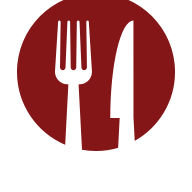
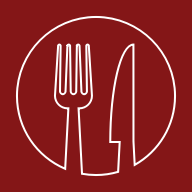
Finalize home screen functionality.
Also update icons.

diff --git a/static/css/style.css b/static/css/style.css
@@ -15,6 +15,10 @@ h1, h2, h3 {
 	margin-top: 0.4em;
 }
 #next {
+	margin-top: 0.8em;
+	opacity: 0.6;
+}
+#next, #add {
 	padding: 0.5em 2em;
 	font-size: 1.2em;
 	appearance: none;
@@ -24,9 +28,12 @@ h1, h2, h3 {
 	outline: none;
 	background: none;
 	border-radius: 0.2em;
-	opacity: 0.6;
 	cursor: pointer;
-	margin-top: 0.8em;
+}
+#add {
+	position: fixed;
+	bottom: 0.5em;
+	left: calc(50% - 2.54em);
 }
 #next:hover {
 	opacity: 1;

diff --git a/static/scripts/home-screen.js b/static/scripts/home-screen.js
@@ -2,7 +2,7 @@ window.addEventListener("beforeinstallprompt", e => {
 	e.preventDefault();
 	deferredPrompt = e;
 	let add = document.getElementById("add_button");
-	add.style.display = "block";
+	add.style.display = "initial";
 	add.addEventListener("click", v => {
 		add.style.display = 'none';
 		e.prompt();

diff --git a/static/index.html b/static/index.html
@@ -26,5 +26,6 @@
 	<h2 id="place"></h2>
 	<h3 id="times"></h3>
 	<button id="next" style="display: none;"><span role="img" id="next_text"></span></button>
+	<button id="add" style="display: none;"><span role="img" aria-label="Add to home screen">📲</span></button>
 </body>
 </html>
